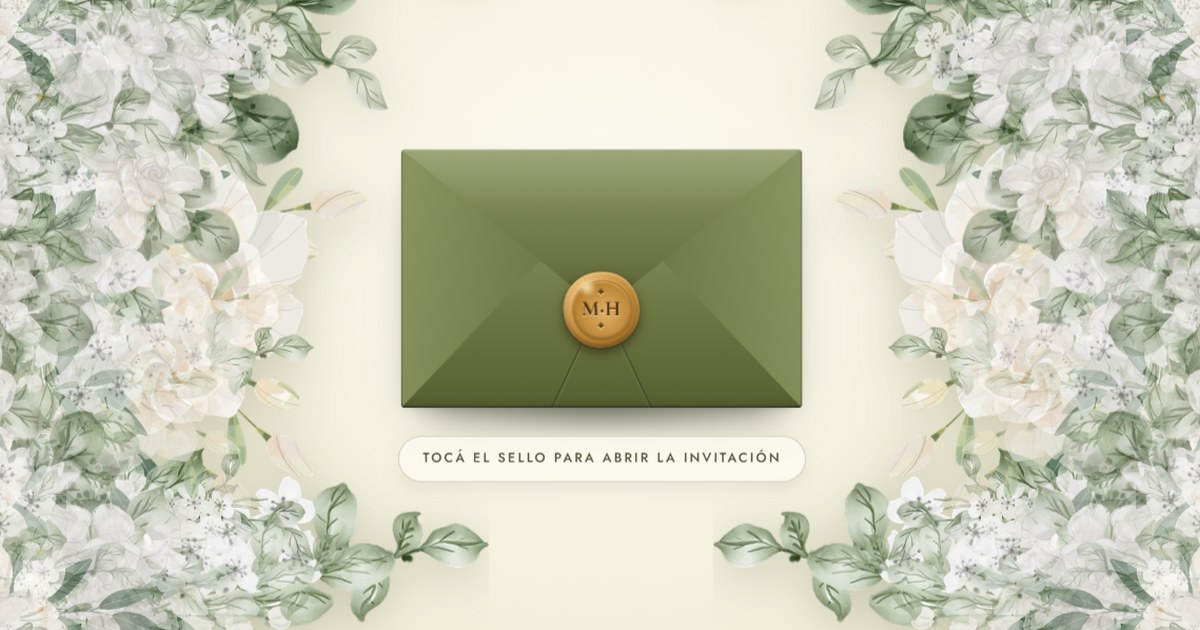
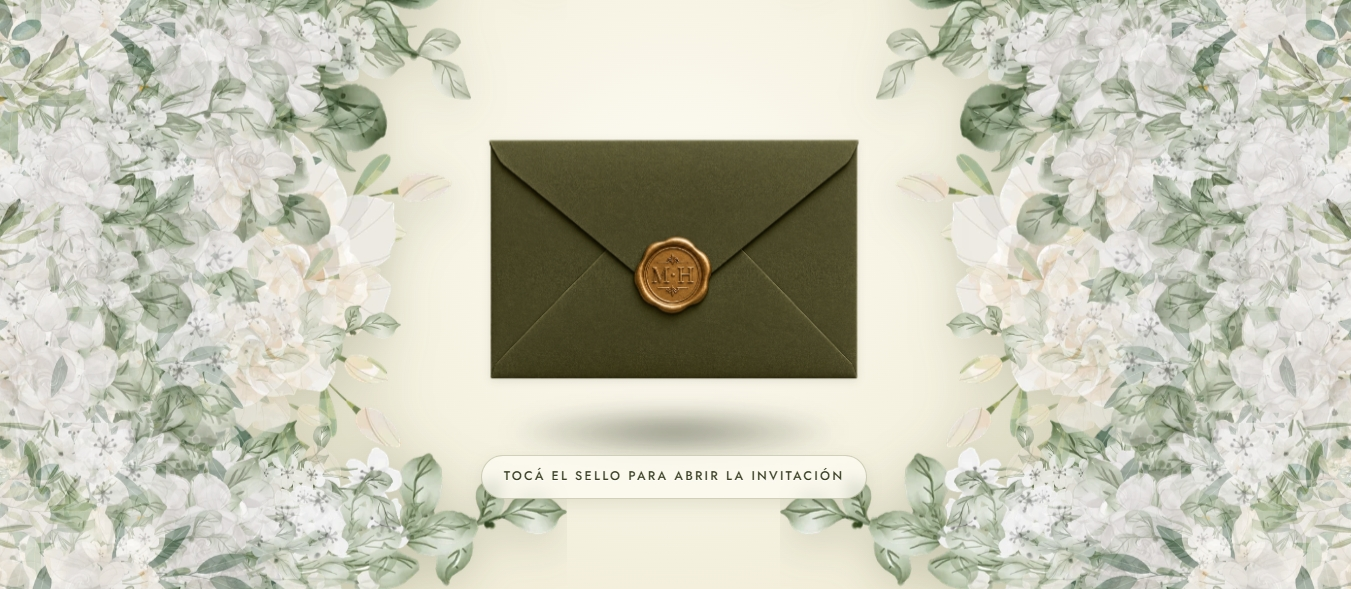
Actualización de imágenes y diseño de la galería

diff --git a/index.html b/index.html
@@ -591,16 +591,6 @@
             <h2>Galería</h2>
           </header>
           <div class="gallery-masonry reveal-section">
-            <div class="gallery-item gallery-item--tall">
-              <img
-                src="img/1.jpeg"
-                alt="María y Hernán agarrados de sus caras mirandose fijamente"
-                loading="lazy"
-                decoding="async"
-                width="800"
-                height="1200"
-              />
-            </div>
             <div class="gallery-item">
               <img
                 src="img/2.jpeg"
@@ -621,7 +611,6 @@
                 height="1200"
               />
             </div>
-            
             <div class="gallery-item">
               <img
                 src="img/5.webp"
@@ -644,58 +633,8 @@
             </div>
             <div class="gallery-item">
               <img
-                src="img/7.jpeg"
-                alt="Maria y Hernan tomandose la cara tiernamente"
-                loading="lazy"
-                decoding="async"
-                width="800"
-                height="1200"
-              />
-            </div>
-            <div class="gallery-item">
-              <img
-                src="img/8.jpeg"
-                alt="María y Hernán abrazados mirando al frente"
-                loading="lazy"
-                decoding="async"
-                width="800"
-                height="1200"
-              />
-            </div>
-            <div class="gallery-item gallery-item--wide">
-              <img
-                src="img/9.webp"
-                alt="María y Hernán besandose"
-                loading="lazy"
-                decoding="async"
-                width="1200"
-                height="800"
-              />
-            </div>
-            <div class="gallery-item">
-              <img
                 src="img/10.webp"
                 alt="María y Hernán mirandose fijamente"
-                loading="lazy"
-                decoding="async"
-                width="800"
-                height="1200"
-              />
-            </div>
-            <div class="gallery-item">
-              <img
-                src="img/11.webp"
-                alt="María y Hernán Abrazados"
-                loading="lazy"
-                decoding="async"
-                width="800"
-                height="1200"
-              />
-            </div>
-            <div class="gallery-item">
-              <img
-                src="img/12.webp"
-                alt="Hernan besando en la frente a Maria"
                 loading="lazy"
                 decoding="async"
                 width="800"

diff --git a/css/style.css b/css/style.css
@@ -858,7 +858,7 @@ body.theme-light .playlist-hint{color:#5a5a43}
   break-inside: avoid;
   -webkit-column-break-inside: avoid;
   page-break-inside: avoid;
-  
+
   /* Marco mucho más finito */
   background: #fffdf8; 
   padding: 3px; /* <--- Acá achicamos el marco */
@@ -1370,6 +1370,7 @@ body.post-boda .gallery-album-cta{
   background-size:12px;
   padding-right:38px;
   -webkit-appearance:none;
+  -moz-appearance: none;
   appearance:none;
 }
 .rsvp-form__field input::placeholder,
@@ -1546,6 +1547,7 @@ body.post-boda .gallery-album-cta{
   position:absolute;
   z-index:10;
   background:rgba(247,243,232,.85);
+  -webkit-backdrop-filter: blur(6px);
   backdrop-filter:blur(6px);
   border-radius:50%;
   transition:background .25s ease, transform .25s ease;
